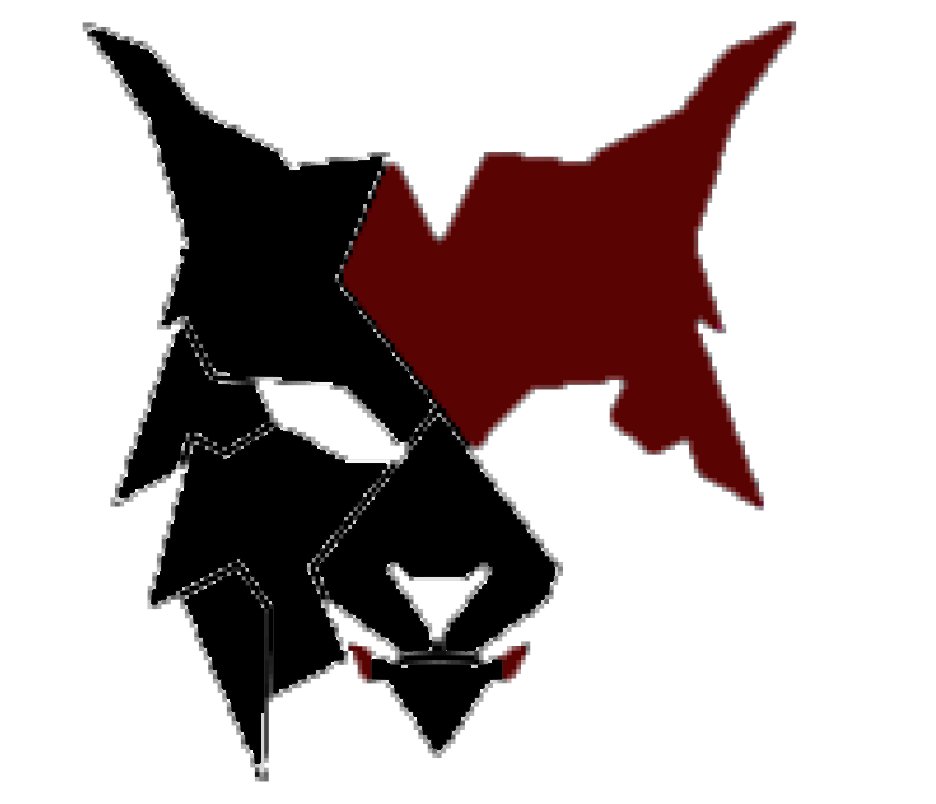
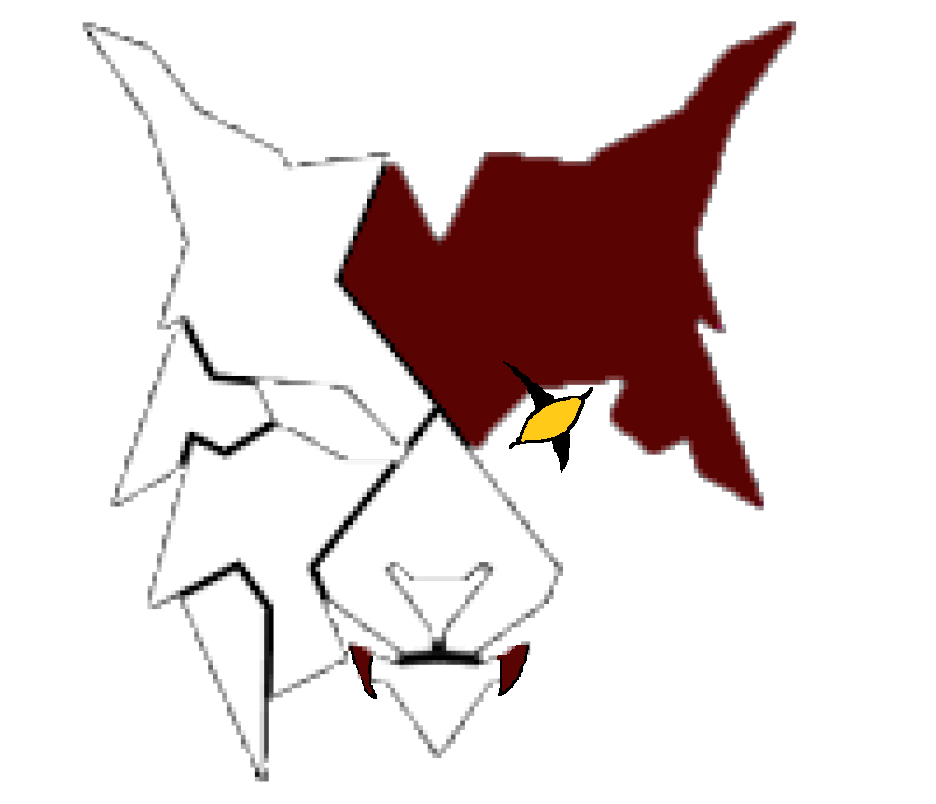
resize

Changed region(s): [[0.0929, 0.0311, 0.5887, 0.9639], [0.5267, 0.4664, 0.6506, 0.5908], [0.5267, 0.4353, 0.5577, 0.4664]]

diff --git a/Ark.html b/Ark.html
@@ -35,7 +35,7 @@
 		<div class="container">
 
       <li class="nav-item dropdown small-display" style="width: 100%;">
-        <a class="nav-link dropdown-toggle small-display" href="#" id="dropdown03" data-toggle="dropdown" aria-haspopup="true" aria-expanded="false" style="font-size: 20px;">≡</a>
+        <a class="nav-link dropdown-toggle small-display" href="#" id="dropdown03" data-toggle="dropdown" aria-haspopup="true" aria-expanded="false" style="font-size: 35px;">≡</a>
         <ul class="dropdown-menu" aria-labelledby="dropdown03" style="background-color: white; width: 100%;">
           <li class="nav-item active">
             <a class="dropdown-item" href="Ark.html">Ark</a>
@@ -63,7 +63,7 @@
       </li>
 
         <div class="zlglogo">
-		  <img src="./assets/img/lynx.png" alt=""
+		  <img src="./assets/img/lynx2 .png" alt=""
           width="80px"
           display="inline-block">
           <img src="./assets/img/zlglogo.png" alt=""

diff --git a/assets/css/arkstyle.css b/assets/css/arkstyle.css
@@ -1552,6 +1552,11 @@ h3.quote::before {
         margin: 0 auto;
     }
   }
+
+  @media screen and (max-width: 533px) {
+    .serverstatusblock {
+      width: 80%;
+    }
 .status {
     width: 75%;
     padding: 0px;
